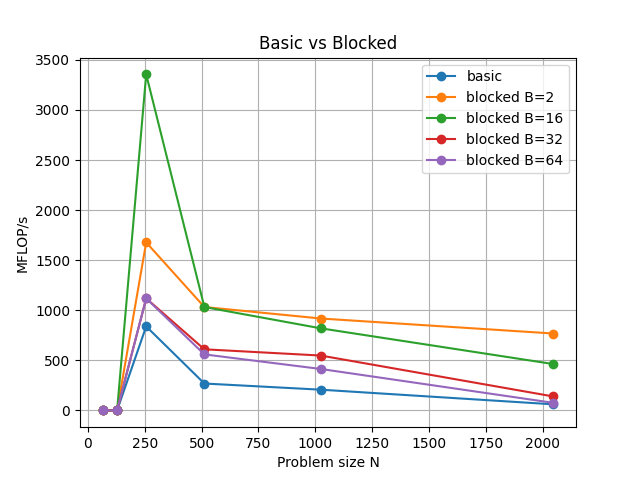
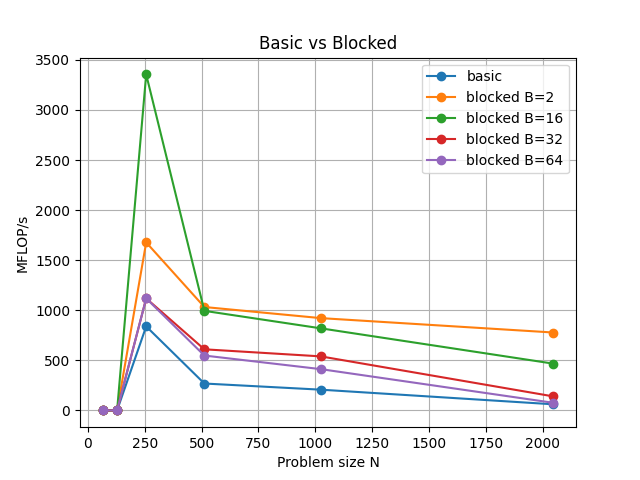
fix

diff --git a/dgemm-blocked.cpp b/dgemm-blocked.cpp
@@ -14,44 +14,48 @@ void square_dgemm_blocked(int n, int block_size, double* A, double* B, double* C
    // Outer loop: Iterates over the block
    for (int i0 = 0; i0 < n; i0 += block_size) {
       for (int j0 = 0; j0 < n; j0 += block_size) {
+
+         int block_rows = (i0 + block_size > n) ? n - i0 : block_size;
+         int block_cols = (j0 + block_size > n) ? n - j0 : block_size;
             
-            // Copy C blocks to the buffer
-            for (int i = 0; i < block_size; i++) {
-                for (int j = 0; j < block_size; j++) {
-                    blockC[i * block_size + j] = C[(i0 + i) * n + (j0 + j)];
-                }
+         // Copy C blocks to the buffer
+         for (int i = 0; i < block_rows; i++) {
+            for (int j = 0; j < block_cols; j++) {
+               blockC[i * block_size + j] = C[(i0 + i) * n + (j0 + j)];
             }
+         }
             
-            for (int k0 = 0; k0 < n; k0 += block_size) {
+         for (int k0 = 0; k0 < n; k0 += block_size) {
+            int block_k = (k0 + block_size > n) ? n - k0 : block_size;
                 
-               // Copy A blocks to the buffer
-               for (int i = 0; i < block_size; i++) {
-                  for (int k = 0; k < block_size; k++) {
-                     blockA[i * block_size + k] = A[(i0 + i) * n + (k0 + k)];
-                  }
-               }
-                
-               // Copy B blocks to the buffer
+            // Copy A blocks to the buffer
+            for (int i = 0; i < block_size; i++) {
                for (int k = 0; k < block_size; k++) {
-                  for (int j = 0; j < block_size; j++) {
-                     blockB[k * block_size + j] = B[(k0 + k) * n + (j0 + j)];
-                  }
+                  blockA[i * block_size + k] = A[(i0 + i) * n + (k0 + k)];
                }
+            }
                 
-               // Execute matrix multiplication on sub-blocks of the matrix
-               for (int i = 0; i < block_size; i++) {
-                  for (int j = 0; j < block_size; j++) {
-                     for (int k = 0; k < block_size; k++) {
-                        blockC[i * block_size + j] += blockA[i * block_size + k] * blockB[k * block_size + j];
-                     }
+            // Copy B blocks to the buffer
+            for (int k = 0; k < block_size; k++) {
+               for (int j = 0; j < block_size; j++) {
+                  blockB[k * block_size + j] = B[(k0 + k) * n + (j0 + j)];
+               }
+            }
+                
+            // Execute matrix multiplication on sub-blocks of the matrix
+            for (int ii = 0; ii < block_size; ii++) {
+               for (int jj = 0; jj < block_size; jj++) {
+                  for (int kk = 0; kk < block_size; kk++) {
+                     blockC[ii * block_size + jj] += blockA[ii * block_size + kk] * blockB[kk * block_size + jj];
                   }
                }
             }
+         }
             
-            // Write the result back to the original matrix C
-            for (int i = 0; i < block_size; i++) {
-               for (int j = 0; j < block_size; j++) {
-                  C[(i0 + i) * n + (j0 + j)] = blockC[i * block_size + j];
+         // Write the result back to the original matrix C
+         for (int i = 0; i < block_size; i++) {
+            for (int j = 0; j < block_size; j++) {
+               C[(i0 + i) * n + (j0 + j)] = blockC[i * block_size + j];
             }
          }
       }

diff --git a/plot_mmul.py b/plot_mmul.py
@@ -87,7 +87,7 @@ def plot_results(data):
     plt.savefig("all_impl.png")
 
 def main():
-    data = parse_output("mmul-43004649.o")
+    data = parse_output("mmul-43006909.o")
     plot_results(data)
     print("✅ Image saved: basic_vs_blas.png, blocked_vs_blas.png, basic_vs_blocked.png, all_impl.png")
 
